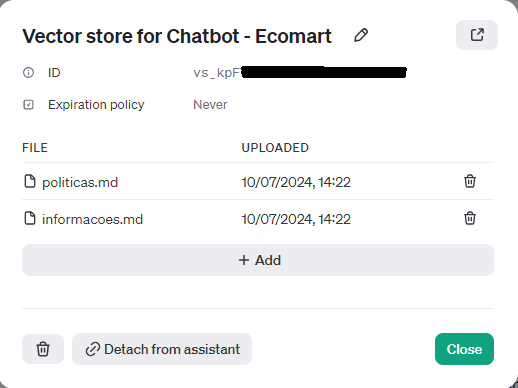
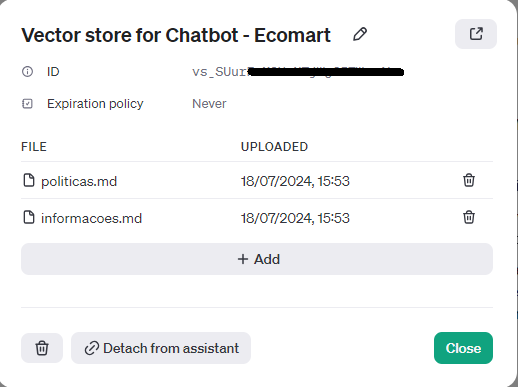
fileIds

diff --git a/src/main/java/br/com/wm/ecomart/chatbot/infra/openai/OpenAIClient.java b/src/main/java/br/com/wm/ecomart/chatbot/infra/openai/OpenAIClient.java
@@ -3,8 +3,8 @@ package br.com.wm.ecomart.chatbot.infra.openai;
 import br.com.wm.ecomart.chatbot.domain.DadosCalculoFrete;
 import br.com.wm.ecomart.chatbot.domain.service.CalculadorDeFrete;
 import com.fasterxml.jackson.databind.ObjectMapper;
-import com.theokanning.openai.OpenAiHttpException;
 import com.theokanning.openai.completion.chat.*;
+import com.theokanning.openai.file.File;
 import com.theokanning.openai.messages.Message;
 import com.theokanning.openai.messages.MessageRequest;
 import com.theokanning.openai.runs.Run;
@@ -14,7 +14,6 @@ import com.theokanning.openai.runs.SubmitToolOutputsRequest;
 import com.theokanning.openai.service.FunctionExecutor;
 import com.theokanning.openai.service.OpenAiService;
 import com.theokanning.openai.threads.ThreadRequest;
-import io.reactivex.Flowable;
 import org.springframework.beans.factory.annotation.Value;
 import org.springframework.stereotype.Component;
 
@@ -42,11 +41,23 @@ public class OpenAIClient {
     }
 
     public String enviarRequisicaoChatCompletion(DadosRequisicaoChatCompletion dados) {
+        List<String> fileIds = service.listFiles().stream()
+                .map(File::getId)
+                .toList();
+
+        System.out.println("\n");
+        System.out.println("File ids: " + fileIds);
+
         var messageRequest = MessageRequest
                 .builder()
                 .role(ChatMessageRole.USER.value())
                 .content(dados.promptUsuario())
+                .fileIds(fileIds)
                 .build();
+
+        System.out.println("Assistant id: " + this.assistantId);
+
+        System.out.println("Thread id: " + this.threadId);
 
         if (this.threadId == null) {
             var threadRequest = ThreadRequest
@@ -55,10 +66,19 @@ public class OpenAIClient {
                     .build();
 
             var thread = service.createThread(threadRequest);
+
             this.threadId = thread.getId();
+
+            try {
+                Thread.sleep(1000 * 3);
+            } catch (InterruptedException e) {
+                throw new RuntimeException(e);
+            }
         } else {
             service.createMessage(this.threadId, messageRequest);
         }
+
+        System.out.println("Thread id: " + this.threadId);
 
         var runRequest = RunCreateRequest
                 .builder()
@@ -131,53 +151,6 @@ public class OpenAIClient {
             throw new RuntimeException(e);
         }
     }
-
-    /* knowledge retrieval ... não funcionando... A.4
-    public String enviarRequisicaoChatCompletion(DadosRequisicaoChatCompletion dados) {
-        var messageRequest = MessageRequest
-                .builder()
-                .role(ChatMessageRole.USER.value())
-                .content(dados.promptUsuario())
-                .build();
-
-        if (this.threadId == null) {
-            var threadRequest = ThreadRequest
-                    .builder()
-                    .messages(Arrays.asList(messageRequest))
-                    .build();
-
-            var thread = service.createThread(threadRequest);
-            this.threadId = thread.getId();
-        } else {
-            service.createMessage(this.threadId, messageRequest);
-        }
-
-        var runRequest = RunCreateRequest
-                .builder()
-                .assistantId(assistantId)
-                .build();
-        var run = service.createRun(threadId, runRequest);
-
-        try {
-            while (!run.getStatus().equalsIgnoreCase("completed")) {
-                Thread.sleep(1000 * 10);
-                run = service.retrieveRun(threadId, run.getId());
-            }
-        } catch (Exception e) {
-            throw new RuntimeException(e);
-        }
-
-        var mensagens = service.listMessages(threadId);
-        var respostaAssistente = mensagens
-                .getData()
-                .stream()
-                .sorted(Comparator.comparingInt(Message::getCreatedAt).reversed())
-                .findFirst().get().getContent().get(0).getText()
-                .getValue().replaceAll("\\\u3010.*?\\\u3011", "");
-
-        return respostaAssistente;
-    }
-     */
 
     public List<String> carregarHistoricoDeMensagens() {
         var mensagens = new ArrayList<String>();

diff --git a/src/main/java/br/com/wm/ecomart/chatbot/web/controller/ChatController.java b/src/main/java/br/com/wm/ecomart/chatbot/web/controller/ChatController.java
@@ -5,8 +5,6 @@ import br.com.wm.ecomart.chatbot.web.dto.PerguntaDto;
 import org.springframework.stereotype.Controller;
 import org.springframework.ui.Model;
 import org.springframework.web.bind.annotation.*;
-import org.springframework.web.servlet.mvc.method.annotation.ResponseBodyEmitter;
-import org.thymeleaf.engine.TemplateManager;
 
 @Controller
 @RequestMapping({"/", "chat"})
@@ -14,7 +12,7 @@ public class ChatController {
 
     private static final String PAGINA_CHAT = "chat";
 
-    private ChatbotService service;
+    private final ChatbotService service;
 
     public ChatController(ChatbotService service) {
         this.service = service;
